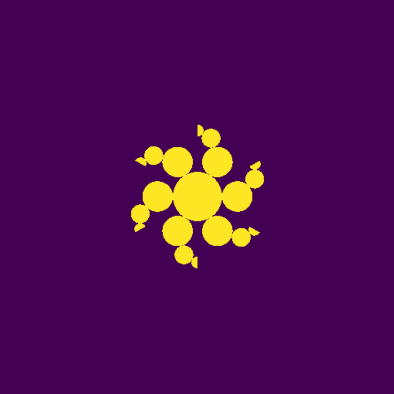
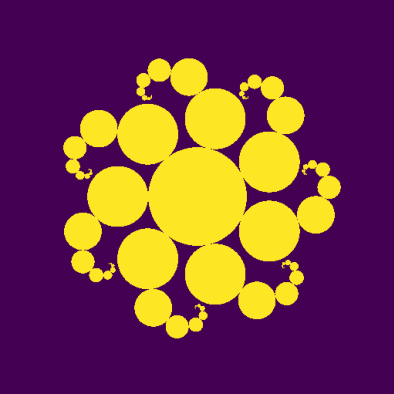
_

Changed region(s): [[0.1523, 0.1218, 0.8832, 0.8832]]

diff --git a/hyper-sign.py b/hyper-sign.py
@@ -1,8 +1,5 @@
-from os import error
-from scipy.stats import truncnorm
 import numpy as np
 import matplotlib.pyplot as plt
-import hashlib
 
 Phi,phi=( _ := 5 ** .5 * .5) + .5, _ - .5
 
@@ -11,21 +8,26 @@ Complex imaginary fractal tentacles of rotational reflected hyperspheres
 """
 def hypershpere_sign(width,height,max_iter):
     # Grid
-    x, y = np.linspace(-8, 8, width), np.linspace(-8, 8, height)
+    x, y = np.linspace(-4, 4, width), np.linspace(-4, 4, height)
     X, Y = np.meshgrid(x, y)
     Z = X + 1j * Y
-    r = 6
-    zeta = (np.pi/( .5 * r)) * np.floor( .5 * r * np.angle(Z)/np.pi + .5 * r +.5)  
-    spin = (np.sin(zeta)+np.cos(zeta)*1j)
-    Z *= spin
     output = np.zeros(Z.shape, dtype = float)
-    theta = np.pi * .25
-    for i in range(max_iter):
-        output += 1 - np.abs(Z) > 0
-        scalar = Phi
-        Z *= scalar
-        Z += (scalar + 1) * 1j 
-        Z *= np.cos(theta) + np.sin(theta) * 1j
+    for i in range (2):
+        Z = X + 1j * Y
+        r = 7
+        offset = -np.pi/r*2
+        zeta = (np.pi/( .5 * r)) * np.floor( .5 * r * np.angle(Z)/np.pi + .5 * r +.5)
+        spin = (np.sin(zeta)+np.cos(zeta)*1j)
+        Z *= spin
+        if (i==1):
+            Z *= np.cos(offset)+np.sin(offset)*1j 
+        theta = np.pi * .25
+        for j in range(max_iter):
+            output += 1 - np.abs(Z) > 0
+            scalar = Phi
+            Z *= scalar
+            Z += (scalar + 1) * 1j 
+            Z *= np.cos(theta) + np.sin(theta) * 1j
 
     return np.clip(output, 0, 1)
 
